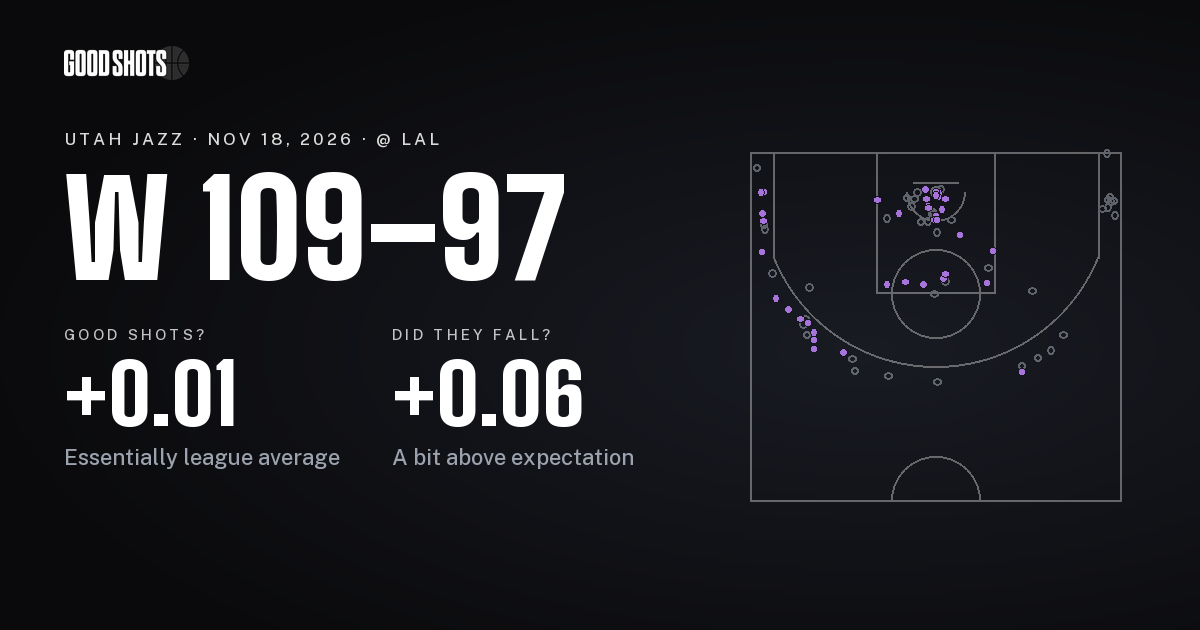
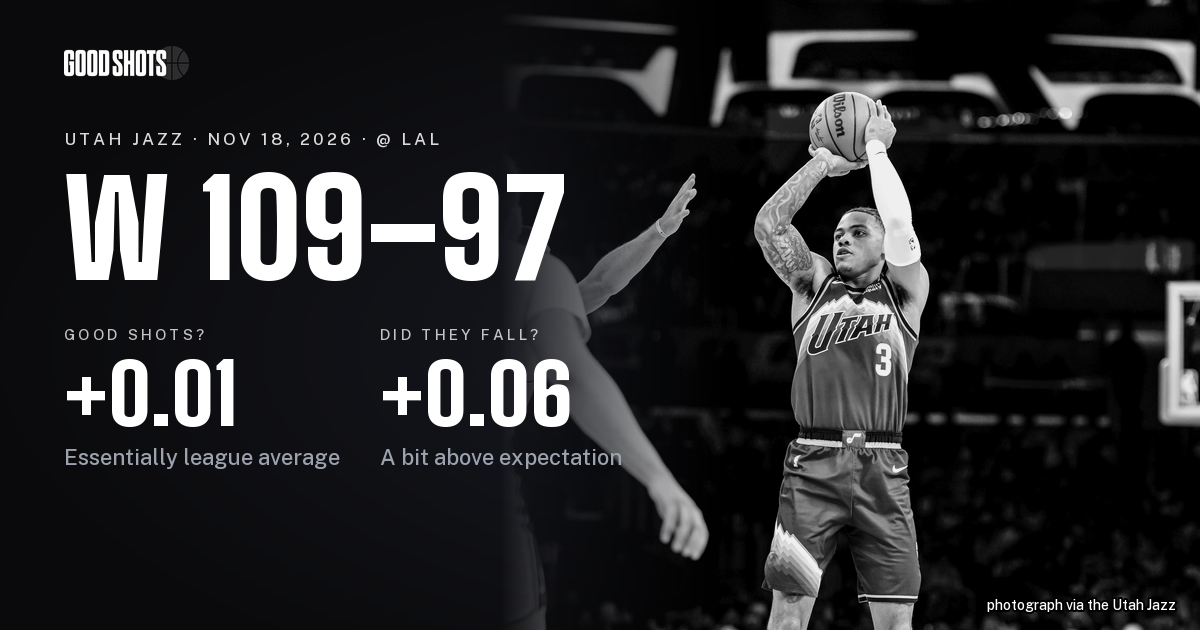
Give the Lakers report card its game photograph
Keyonte George raising the ball for a jumper as a Lakers defender
reaches to contest, the header of the Jazz's 11-18 recap (DSC01358),
credited "photograph via the Utah Jazz" from an empty record. The game
is verified by the uniforms and the jersey patch: the Jazz have met the
Lakers twice in 2026-27, and the Lakers wore white at the Delta Center
on 10-25, so the gold here puts it at the Lakers on 11-18; the Jazz
played no Lakers preseason game. George was a Jazz player in 2025-26
too, but his jersey carries the HealthEquity patch of the 2026-27
frames, where the 2025-26 purple jersey of the same design carries LVT.
The camera counter agrees, following the 11-17 photograph's DSC00328.
The clock is cut off at the frame's edge, so no shot is matched. Focal
points checked at the 375px poster (40% keeps the defender's reaching
hand in frame) and the 1440px wide panel with its left fade; the share
card redrawn with the photograph.

diff --git a/src/teams/gamePhotos.ts b/src/teams/gamePhotos.ts
@@ -137,6 +137,13 @@ export const GAME_PHOTOS: Readonly<Record<string, GamePhoto>> = {
     imagePosition: '55% 40%',
     imagePositionWide: '35% 30%',
   },
+  '2026-11-18-lal': {
+    imagePath: 'img/games/2026-11-18-lal.jpg',
+    imageAlt: 'Keyonte George raises the ball for a jumper as a Lakers defender reaches to contest, in the purple Jazz number 3 jersey',
+    imageCredit: 'photograph via the Utah Jazz',
+    imagePosition: '40% 40%',
+    imagePositionWide: '50% 30%',
+  },
 }
 
 export function gamePhotoOf(slug: string): GamePhoto | undefined {

diff --git a/docs/image-credits.md b/docs/image-credits.md
@@ -509,3 +509,28 @@ Utah Jazz".
   white, slapping hands with George, 3, Sensabaugh behind them, no
   opponent in frame), was passed over: white fits nine earlier games, and
   nothing in it proves its game.
+
+The photo finder listed one team frame for 11-18 after the 06:30 session
+of 2026-11-19, and a rerun that morning found no other. Pulled 2026-11-19
+by `game:photo` and retained in `data/game-sources/2026-11-18-lal.jpg`;
+the record carries an empty credit and the file no embedded metadata, so
+it is credited "photograph via the Utah Jazz".
+
+- `public/img/games/2026-11-18-lal.jpg`, Keyonte George (3, purple)
+  raising the ball for a jumper as a Lakers defender in gold reaches to
+  contest, a second Lakers player (4) out of focus in the foreground with
+  his back to the camera: the header of the Jazz's 11-18 recap, posted
+  11-19 06:02 UTC,
+  `cdn.nba.com/teams/uploads/sites/1610612762/2026/11/DSC01358.jpg`
+  (5834x4208). **The game is verified by the uniforms and the jersey
+  patch**: the Jazz have met the Lakers twice in 2026-27, at the Delta
+  Center on 10-25, where the Lakers wore white (the Jackson photograph,
+  above), and at the Lakers on 11-18, and the Jazz played no Lakers
+  preseason game (Denver, San Antonio, Phoenix). The Lakers in gold rule
+  out 10-25. George was a Jazz player in 2025-26 too, and the patch rules
+  out that season's Lakers games: his jersey carries the HealthEquity
+  patch of the 2026-27 frames, where the 2025-26 purple jersey of the
+  same mountain design carries LVT (the Ace Bailey banner, Jazz at
+  Orlando, 2026-02-07, above). The counter agrees, following the 11-17
+  photograph's `DSC00328`. The game clock at the right edge is cut off,
+  so the frame gives no time to match to a shot.
